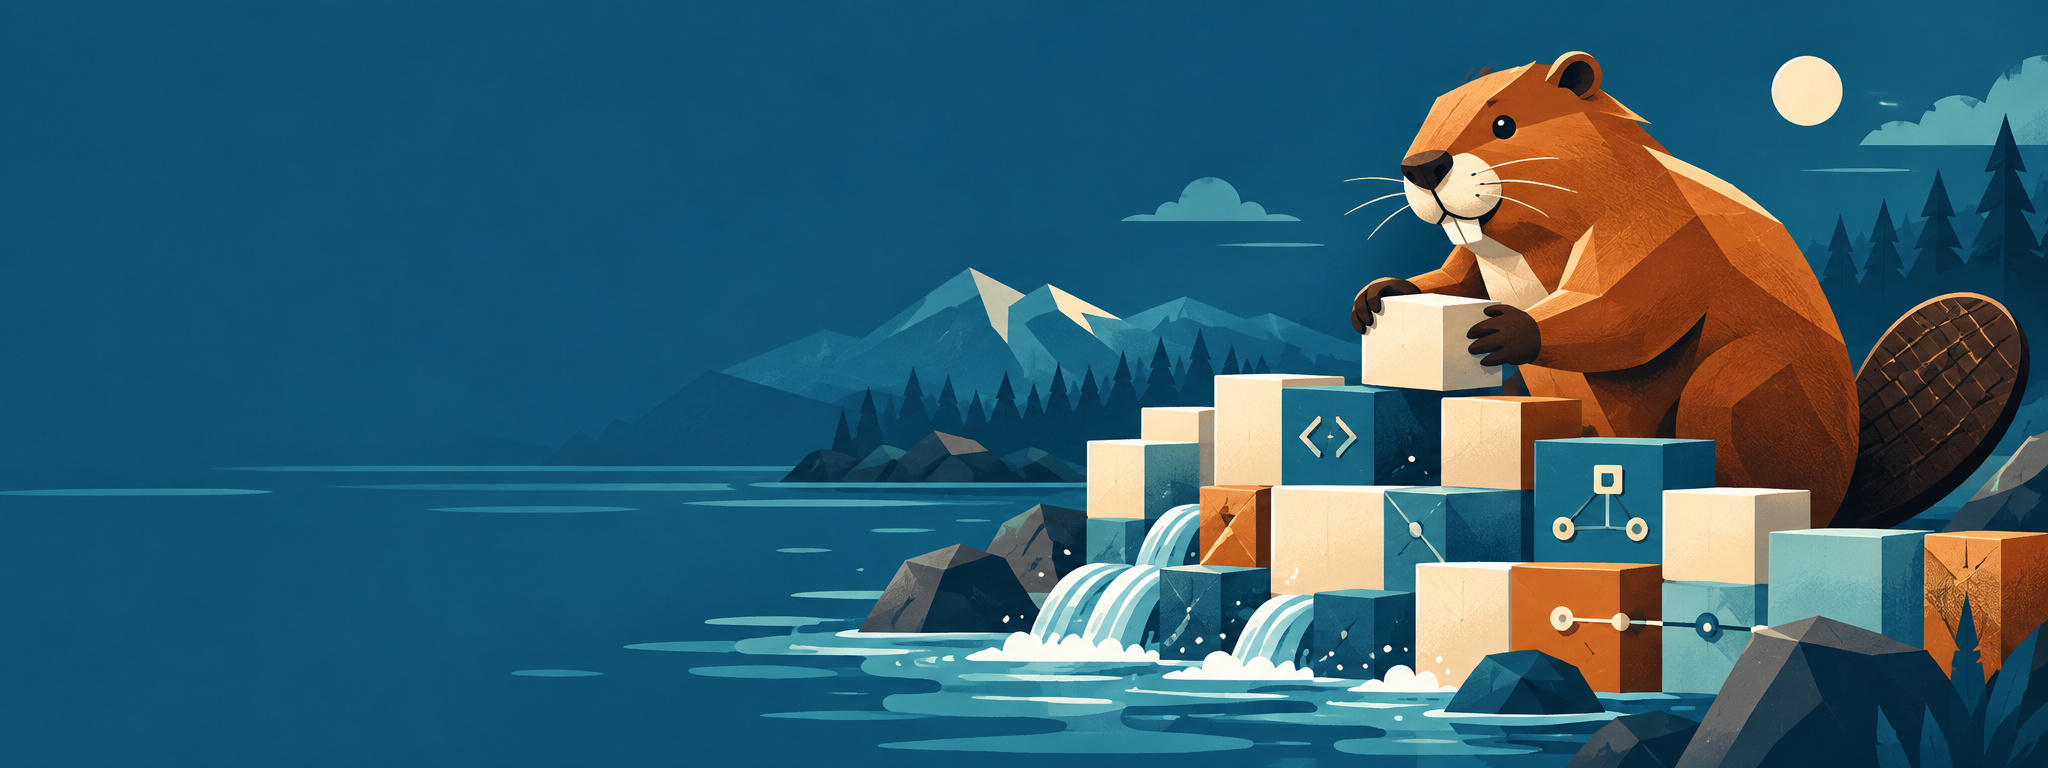
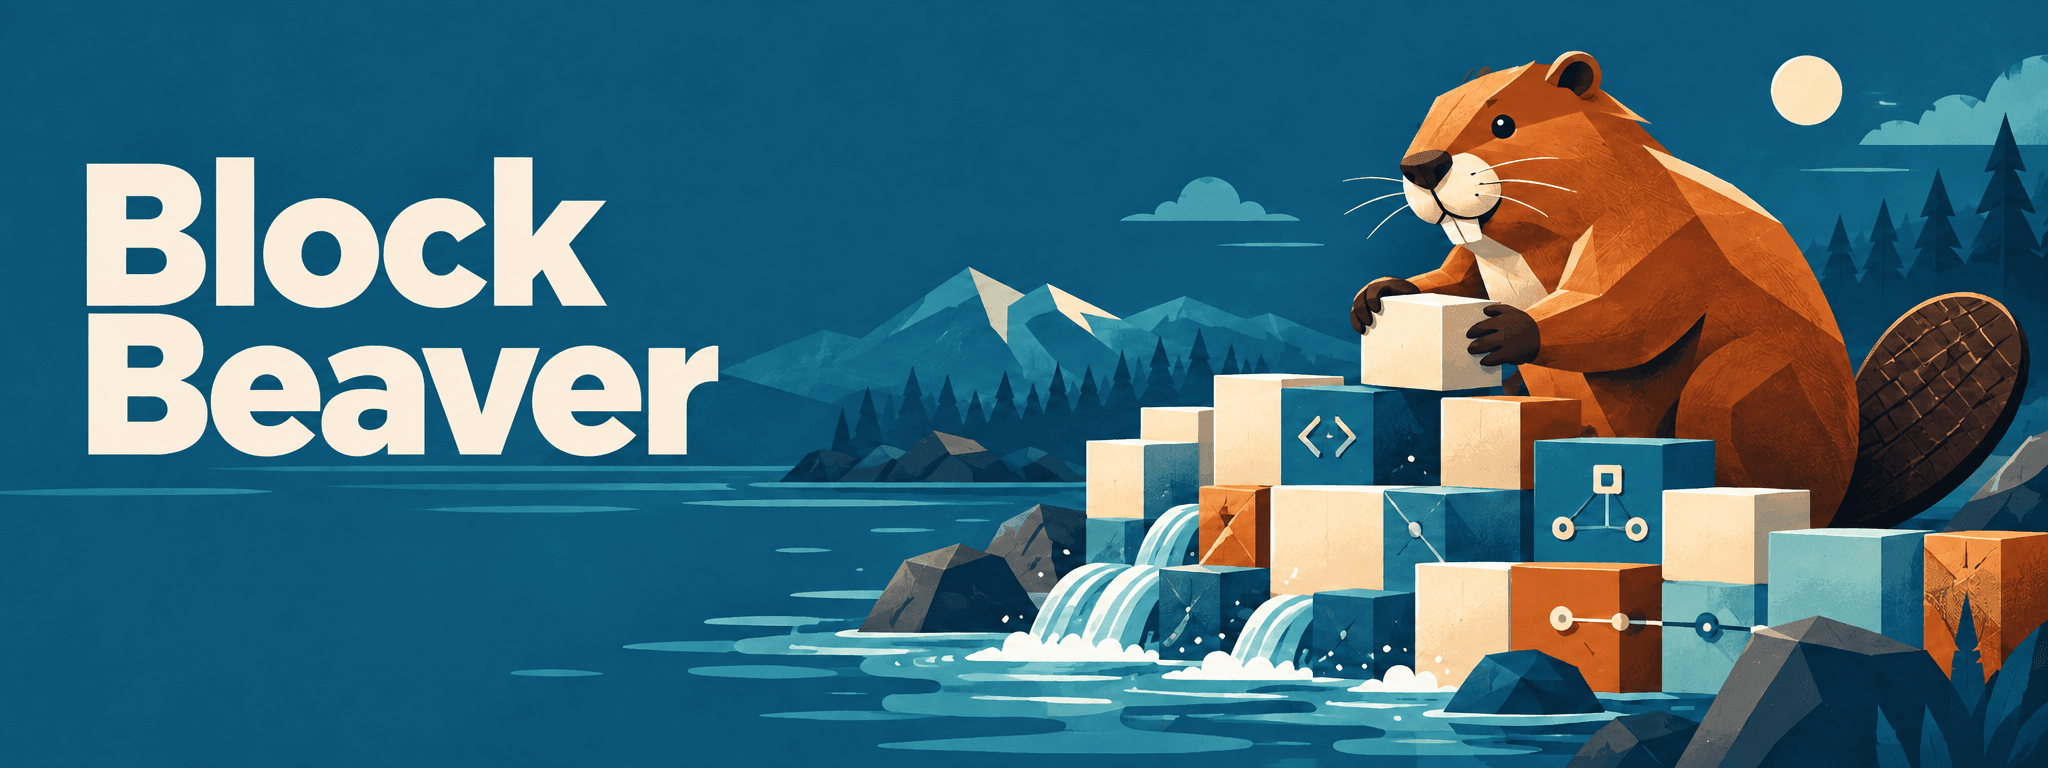
Prepare public v0.1.0 release (#5)
* chore: prepare public v0.1.0 release

* docs: update block-beaver-hero.png asset

* fix: allow PR secret scan and portable test runner

diff --git a/docs/index.html b/docs/index.html
@@ -32,9 +32,13 @@
     </section>
 
     <div class="badges wrap" aria-label="Project status">
-      <a href="https://github.com/sirnax/block-beaver/actions/workflows/ci.yml"><img src="https://img.shields.io/badge/CI-GitHub%20Actions-28728d" alt="GitHub Actions checks"></a>
-      <a href="https://github.com/sirnax/block-beaver/blob/main/LICENSE"><img src="https://img.shields.io/badge/license-Apache--2.0-28728d" alt="Apache-2.0 license"></a>
-      <a href="https://github.com/sirnax/block-beaver/blob/main/package.json"><img src="https://img.shields.io/badge/node-22%2B-28728d" alt="Node.js 22 or newer"></a>
+      <a href="https://github.com/sirnax/block-beaver/releases"><img src="https://img.shields.io/github/v/release/sirnax/block-beaver?color=28728d" alt="Latest GitHub release"></a>
+      <a href="https://github.com/sirnax/block-beaver/actions/workflows/ci.yml"><img src="https://github.com/sirnax/block-beaver/actions/workflows/ci.yml/badge.svg?branch=main" alt="CI status"></a>
+      <a href="https://github.com/sirnax/block-beaver/actions/workflows/secret-scan.yml"><img src="https://github.com/sirnax/block-beaver/actions/workflows/secret-scan.yml/badge.svg?branch=main" alt="Secret scan status"></a>
+      <a href="https://github.com/sirnax/block-beaver/actions/workflows/codeql.yml"><img src="https://github.com/sirnax/block-beaver/actions/workflows/codeql.yml/badge.svg?branch=main" alt="CodeQL status"></a>
+      <a href="https://github.com/sirnax/block-beaver/blob/main/LICENSE"><img src="https://img.shields.io/github/license/sirnax/block-beaver?color=28728d" alt="Apache-2.0 license"></a>
+      <a href="https://github.com/sirnax/block-beaver/blob/main/README.md#supported-environments"><img src="https://img.shields.io/badge/Node.js-22%20%7C%2024%20%7C%2026-28728d" alt="Node.js 22, 24 and 26"></a>
+      <a href="https://github.com/sirnax/block-beaver/blob/main/README.md#supported-environments"><img src="https://img.shields.io/badge/OS-Linux%20%7C%20macOS%20%7C%20Windows-28728d" alt="Linux, macOS and Windows"></a>
       <a href="https://github.com/sirnax/block-beaver/issues"><img src="https://img.shields.io/badge/issues-report%20a%20bug-d1985b" alt="Report an issue"></a>
     </div>
 

diff --git a/README.md b/README.md
@@ -3,17 +3,25 @@
 <p align="center"><img src="docs/assets/block-beaver-hero.png" alt="A beaver builds a dam from blocks marked with code and graph connections" width="100%"></p>
 
 <p align="center">
-  <a href="https://github.com/sirnax/block-beaver/actions/workflows/ci.yml"><img alt="GitHub Actions checks" src="https://img.shields.io/badge/CI-GitHub%20Actions-28728d"></a>
-  <a href="LICENSE"><img alt="Apache-2.0 license" src="https://img.shields.io/badge/license-Apache--2.0-28728d"></a>
-  <a href="package.json"><img alt="Node.js 22 or newer" src="https://img.shields.io/badge/node-22%2B-28728d"></a>
+  <a href="https://github.com/sirnax/block-beaver/releases"><img alt="Latest GitHub release" src="https://img.shields.io/github/v/release/sirnax/block-beaver?color=28728d"></a>
+  <a href="https://github.com/sirnax/block-beaver/actions/workflows/ci.yml"><img alt="CI status" src="https://github.com/sirnax/block-beaver/actions/workflows/ci.yml/badge.svg?branch=main"></a>
+  <a href="https://github.com/sirnax/block-beaver/actions/workflows/secret-scan.yml"><img alt="Secret scan status" src="https://github.com/sirnax/block-beaver/actions/workflows/secret-scan.yml/badge.svg?branch=main"></a>
+  <a href="https://github.com/sirnax/block-beaver/actions/workflows/codeql.yml"><img alt="CodeQL status" src="https://github.com/sirnax/block-beaver/actions/workflows/codeql.yml/badge.svg?branch=main"></a>
+  <a href="LICENSE"><img alt="Apache-2.0 license" src="https://img.shields.io/github/license/sirnax/block-beaver?color=28728d"></a>
+  <a href="#supported-environments"><img alt="Node.js 22, 24 and 26" src="https://img.shields.io/badge/Node.js-22%20%7C%2024%20%7C%2026-28728d"></a>
+  <a href="#supported-environments"><img alt="Linux, macOS and Windows" src="https://img.shields.io/badge/OS-Linux%20%7C%20macOS%20%7C%20Windows-28728d"></a>
   <a href="https://github.com/sirnax/block-beaver/issues"><img alt="Report an issue" src="https://img.shields.io/badge/issues-report%20a%20bug-d1985b"></a>
 </p>
 
 Block Beaver makes the shape of a codebase visible. Scan a JavaScript, TypeScript, or React repository, follow each observed relationship to its source line, and turn a candidate feature into a reviewed block proposal. It runs locally and keeps code changes inside bounded Git worktrees.
 
-**[Get started](#quick-start)** · **[How it works](#how-it-works)** · **[CLI and workflow](#propose-a-block)** · **[Plan](Block-Studio-PLAN.md)** · **[Contribute](CONTRIBUTING.md)**
+**[Project page](https://sirnax.github.io/block-beaver/)** · **[Get started](#quick-start)** · **[How it works](#how-it-works)** · **[CLI and workflow](#propose-a-block)** · **[Plan](Block-Studio-PLAN.md)** · **[Contribute](CONTRIBUTING.md)**
 
-> **Early development.** The graph is an aid to review, not a complete static analysis. The GitHub repository is private while public release preparation continues. Block Beaver is [Apache-2.0 licensed](LICENSE); `package.json` remains private to prevent accidental npm publication.
+> **v0.1.0 is an early release.** The graph is an aid to review, not a complete static analysis. Block Beaver is [Apache-2.0 licensed](LICENSE). The npm package is marked private, so install it from source.
+
+## Supported environments
+
+The CLI and local browser console run with **Node.js 22, 24, or 26**. CI checks Linux on all three versions and macOS and Windows on Node.js 24. The scanner reads JavaScript, JSX, TypeScript, and TSX, including MJS, CJS, MTS, and CTS files. Git is needed for roadmap checks and worktrees. This release is distributed as source through GitHub; it is not published to npm.
 
 ## Why use it?
 
@@ -142,4 +150,4 @@ The focused tests cover source evidence, React rendering links, candidate bounda
 
 Read [CONTRIBUTING.md](CONTRIBUTING.md) before opening a pull request. Use the issue templates for bugs and feature ideas. For a security issue, follow [SECURITY.md](SECURITY.md) and avoid public issues. [SUPPORT.md](SUPPORT.md) explains where to ask usage questions. Changes are recorded in [CHANGELOG.md](CHANGELOG.md).
 
-A standalone [project page](docs/index.html) is prepared for GitHub Pages and will remain unpublished until public access is intentional.
+The [project page](https://sirnax.github.io/block-beaver/) shows the visual concept and quick start. [Release notes](CHANGELOG.md) and the [release process](docs/RELEASING.md) describe each version.

diff --git a/docs/GITHUB_SETUP.md b/docs/GITHUB_SETUP.md
@@ -1,6 +1,6 @@
 # GitHub repository setup
 
-These settings live on GitHub and cannot be enforced by files in this repository alone. Verify them on the private `sirnax/block-beaver` repository before public release. The default branch is `main`.
+These settings live on GitHub and cannot be enforced by files in this repository alone. The default branch is `main`.
 
 ## General
 
@@ -12,7 +12,7 @@ These settings live on GitHub and cannot be enforced by files in this repository
 ## Actions and security
 
 1. In **Settings → Actions → General**, set workflow permissions to **Read repository contents**. Allow actions pinned to a full commit SHA; the CI workflow uses pinned `actions/checkout` and `actions/setup-node` releases.
-2. In **Settings → Security → Advanced Security**, enable dependency graph, Dependabot alerts, and Dependabot security updates. Once the repository is public, enable private vulnerability reporting and CodeQL default setup for JavaScript and TypeScript if offered.
+2. In **Settings → Security → Advanced Security**, enable dependency graph, Dependabot alerts, Dependabot security updates, secret scanning, and private vulnerability reporting. The versioned CodeQL workflow analyzes JavaScript and TypeScript after the repository becomes public.
 3. Confirm the private vulnerability link in the issue template works for a non-maintainer before advertising the public release.
 4. Review the first full CI run. The required status checks below must have run at least once before they can be selected in a ruleset.
 
@@ -21,7 +21,7 @@ These settings live on GitHub and cannot be enforced by files in this repository
 Create a branch ruleset targeting `main`, with no bypass actors. The versioned [ruleset payload](github-main-ruleset.json) records the intended settings. Enable:
 
 - Require a pull request before merging, with dismissal of stale approvals after new commits. The initial approval count is zero because `@sirnax` is the only collaborator; raise it to one when a second maintainer can review pull requests.
-- Require conversation resolution and status checks before merging. Require these exact CI checks: `Check (Node 22)`, `Check (Node 24)`, `Check (Node 26)`, and `Dependency audit`.
+- Require conversation resolution and status checks before merging. Require these exact CI checks: `Check (Node 22)`, `Check (Node 24)`, `Check (Node 26)`, `Platform (macos-latest)`, `Platform (windows-latest)`, `Dependency audit`, `Gitleaks`, and `Analyze (JavaScript and TypeScript)` after each has passed on public `main` and a pull request.
 - Require branches to be up to date before merging, unless merge queue is configured. Block force pushes and deletions.
 - Apply rules to administrators as well. Keep the ruleset active and verify it against a test pull request.
 
@@ -29,11 +29,8 @@ The `CODEOWNERS` file names `@sirnax`. Enable code owner review only if the main
 
 ## Release
 
-1. Complete [the public release checklist](PUBLIC_RELEASE_CHECKLIST.md).
-2. Set a release tag only after the license and changelog are committed and the first CI run passes.
-3. Make the repository public only after a final review of history, settings, and the first CI run.
-4. Publish release notes from `CHANGELOG.md`, documenting supported Node versions and known limitations.
+Follow [the release process](RELEASING.md) and [the public release checklist](PUBLIC_RELEASE_CHECKLIST.md). Make the repository public after the history review and CI pass, then enable the public security features. Tag the checked `main` commit to publish the release notes from `CHANGELOG.md`.
 
 ## Project page
 
-The standalone landing page is [docs/index.html](index.html), with local CSS and artwork under `docs/assets/`. Once the repository is ready for a public website, choose **Settings → Pages → Deploy from a branch → `main` → `/docs`**, then verify the published links and add its URL to the repository's website field. GitHub Pages sites may be publicly accessible even when their repository is private, so keep Pages disabled until publishing the site is intentional.
+The standalone landing page is [docs/index.html](index.html), with local CSS and artwork under `docs/assets/`. Publish it with **Settings → Pages → Deploy from a branch → `main` → `/docs`**, then verify the published links and add its URL to the repository's website field.

diff --git a/docs/PUBLIC_RELEASE_CHECKLIST.md b/docs/PUBLIC_RELEASE_CHECKLIST.md
@@ -1,12 +1,12 @@
 # Public release checklist
 
-This is the review gate before changing repository visibility or advertising a first release.
+This records the v0.1.0 launch review. Check an item only after verifying the published result.
 
 ## Repository content
 
 - [x] Choose Apache-2.0 and add a `LICENSE` file plus package metadata.
-- [ ] Review every tracked file and every reachable Git commit for secrets, personal paths, private source, and third party material. Rotate any exposed secret before rewriting history.
-- [ ] Check that the TeaCake reference remains read only and no TeaCake source or proprietary assets were copied here.
+- [x] Review tracked files and reachable history for secrets, personal paths, private source, and third party material. Gitleaks scanned all reachable commits before publication with no findings.
+- [x] Check that the TeaCake reference remains read only and no TeaCake source or proprietary assets were copied here.
 - [ ] Confirm README commands, support route, conduct contact, and security reporting route work for an outside contributor.
 - [x] Rename the GitHub repository to `block-beaver` and verify its links, badges, templates, and clone instructions.
 
@@ -22,4 +22,4 @@ This is the review gate before changing repository visibility or advertising a f
 - [ ] Apply [GitHub setup](GITHUB_SETUP.md), including dependency alerts, private vulnerability reporting, and an active `main` ruleset.
 - [ ] Confirm required checks and one outside contributor pull request path work.
 - [ ] Publish the prepared `docs/` landing page through GitHub Pages only when public access is intended; verify badges, links, mobile layout, and the repository website field.
-- [ ] Decide and record the first release version, tag, and known limitations.
+- [x] Decide and record the first release version, tag, and known limitations in [the changelog](../CHANGELOG.md) and [release process](RELEASING.md): v0.1.0.

diff --git a/CHANGELOG.md b/CHANGELOG.md
@@ -1,17 +1,18 @@
 # Changelog
 
-All notable user visible changes are recorded here. Releases follow semantic versioning after the first public release; before then, behavior and graph contracts may change.
+All notable user visible changes are recorded here. Releases follow semantic versioning. Before 1.0, behavior and graph contracts may change between minor versions.
 
 ## Unreleased
 
-- Add a branded repository README and a prepared static project page.
-- License the project under Apache-2.0.
-- Prepare public contribution, support, security, CI, and release processes.
-- Restrict local HTTP requests to loopback hosts and matching browser origins.
 
-## 0.1.0 — initial development snapshot
+
+## 0.1.0 — 2026-09-20
 
 - Add JS, TS, and React source scanning with evidence linked relationships.
 - Add local browser graph explorer and read only previews.
 - Add bounded roadmap proposals, checks in isolated worktrees, decisions, and event replay.
 - Add optional TeaCake registry adapter, agent protocol, and authenticated local worker.
+- Add the public project page, Apache-2.0 license, contributor and security guidance, CI, dependency audit, secret scanning, CodeQL, and tag based GitHub releases.
+- Restrict local HTTP requests to loopback hosts and matching browser origins.
+
+Known limitations: graph edges are source observations rather than complete runtime dependencies. Dynamic imports, arbitrary path aliases, and relationships hidden behind reexports can be missed. The console and worker are for trusted local use. No npm package is published.

diff --git a/docs/RELEASING.md b/docs/RELEASING.md
@@ -1,0 +1,12 @@
+# Releasing Block Beaver
+
+Block Beaver uses semantic versions and GitHub source releases. `package.json` remains `private: true`; a GitHub release is not an npm publication.
+
+1. Open a pull request that updates `package.json`, `package-lock.json`, `CHANGELOG.md`, and any compatibility or migration notes. Review the diff and wait for required CI and security checks.
+2. Merge into protected `main`. Confirm its checks pass and that the release commit is on `main`.
+3. Create and push an annotated `vX.Y.Z` tag at that commit. The release workflow checks the tag against `package.json`, extracts that version's notes from `CHANGELOG.md`, reruns the checks, and publishes a GitHub release. A failed workflow leaves the tag available for investigation; never silently move a published tag.
+4. Verify the release page, download/source links, badges, Pages site, and security reporting route. Record any correction in a followup patch release.
+
+The first public release is **v0.1.0**. It supports Node.js 22, 24, and 26. CI runs on Linux for all three and on macOS and Windows with Node.js 24. The graph has the limitations recorded in the [changelog](../CHANGELOG.md).
+
+This project uses a version pull request followed by a tag driven release. Release Please's default GitHub token does not trigger other workflows from its generated pull requests, which conflicts with this repository's required checks. A dedicated app token would add a credential to operate. The tag workflow keeps the branch protection and release steps explicit.

diff --git a/SECURITY.md b/SECURITY.md
@@ -6,11 +6,11 @@ Block Beaver reads local source code and can run project supplied verification c
 
 Do not open a public issue for a vulnerability. Use the repository's **Report a vulnerability** option under **Security → Advisories** on GitHub. Include the affected version or commit, steps to reproduce, the impact, and a suggested fix if available. Do not include secrets or private source code in the report. The maintainer will acknowledge and triage reports through the advisory thread.
 
-If private vulnerability reporting is not enabled yet, contact the maintainer through the private contact method on their GitHub profile. Public release is gated on enabling private vulnerability reporting.
+If the reporting option is unavailable, contact the maintainer through the private contact method on their GitHub profile.
 
 ## Supported versions
 
-Until the first stable release, security fixes target the latest commit on the default branch. Earlier commits and development snapshots are not maintained separately.
+Security fixes target the latest `0.1.x` release and the `main` branch. Earlier development snapshots are not maintained separately.
 
 ## Local use boundary
 
